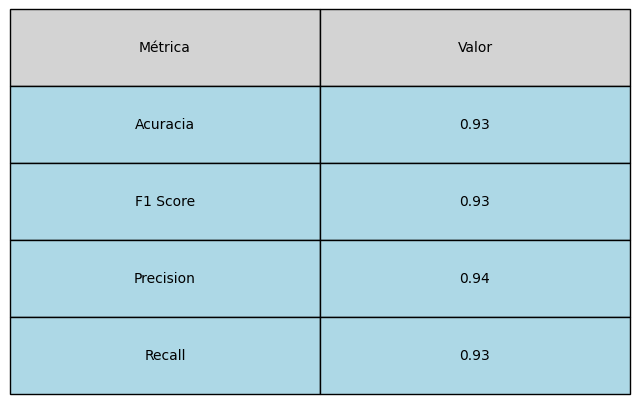
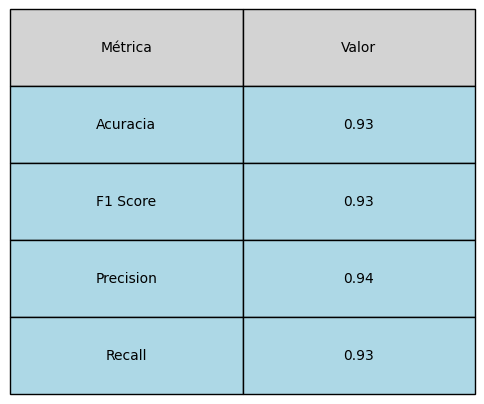
Update READme and add 1 vs all accuracy plot

diff --git a/README.md b/README.md
@@ -9,7 +9,10 @@ Inicialmente, é realizado o tratamento dos arquivos encontrados na pasta data, 
 
 No arquivo [funcs.py](funcs.py)
  está presente os códigos de Regressão linear, PLA, Pocket e Regressão logistica. Abaixo estão os plots obtidos comparando 1 a 1 (no caso do PLA, nem sempre será possível ser utilizado, pois os dados não são linearmente separáveis). E importante destacar que foram feitas adapções como transformar as labels em 1 e -1 para conseguir calcular. Essas informações estão presentes no arquivo [codes.ipynb](codes.ipynb).
-O primeiro passo foi calcular e plotar gráficos de regressão linear, como é possível nos plots abaixo:
+
+### Regressão linear
+Bom, regressão linear, de forma simplificada e informal, é como tentar traçar uma reta ou um plano que represente a trajetória e o comportamento dos dados. Ela utiliza a função de diferença quadrática para ajustar os pesos em cada iteração, buscando se aproximar dos valores reais dos dados. A ideia principal da regressão linear não é para classificação, mas, em alguns casos, ela pode oferecer uma boa aproximação de uma reta que separa dados de classes diferentes, como é o caso dos dados desse projeto. Para fazer essa classificação assim como no Perceptron foi utilizado a função sign para saber como classificar os dados.
+
 #### Plots - Regressão linear 1 x 1:
  ![rl_01](imagens/rl_0_1.png)
  ![rl_01](imagens/rl_0_4.png)
@@ -27,8 +30,14 @@ O primeiro passo foi calcular e plotar gráficos de regressão linear, como é p
 ![rl_01](imagens/mc_lr_1_4.png)
 ![rl_01](imagens/mc_lr_4_5.png)
 
+### Perceptron e Pocket
 
- Feito isso, foi iniciado a análise 1 a 1 utilizando Perceptron. É importante destacar não é possível usar o Perceptron para todos os casos, pois nem sempre os dados eram linear separáveis. Uma adaptação feita com objetivo de melhorar o desempenho, foi iniciar o vetor W com os valores obtidos na regressão linear, isso  fez com que nem fossem feitas novas iterações em alguns casos(já que a reta já seperava os dados) e o processo todo fosse muito mais rápido. Obs: o primeiro exemplo não utilizou o W da regressão linear, justamente para ser visto a diferença; no número de iterações, ao utilizar o W obtido na regressão linear,  foi percebido que um número de iterações  milhares de vezes maior sem o W, além disso foi percebido um movimento diferente ao enxergar o comportamento da reta.
+Após a regressão linear, iniciou-se a análise 1 a 1 utilizando o Perceptron. É importante destacar que não é possível usar o Perceptron em todos os casos, pois nem sempre os dados são linearmente separáveis. Uma adaptação feita para melhorar o desempenho foi iniciar o vetor W com os valores obtidos na regressão linear, o que fez com que, em alguns casos, nem fossem necessárias novas iterações (já que a reta já separava os dados), tornando o processo muito mais rápido. Obs: o primeiro exemplo não utilizou o W da regressão linear justamente para que a diferença fosse observada; ao utilizar o W obtido na regressão linear, percebeu-se que o número de iterações sem esse W era milhares de vezes maior. Além disso, notou-se um comportamento diferente na reta ao longo do processo.
+
+Mas como funciona o Perceptron? Ele tem uma ideia simples: assumindo X como um vetor de features, pegamos um vetor W (vetor de pesos) e calculamos o produto interno dele com o vetor [1, X], sendo o 1 adicionado para o bias, permitindo a translocação da reta ou hiperplano. Feito esse cálculo, aplicamos a função sign, que dará a classificação 1 ou -1. No dataset, temos os valores previstos, então vamos modificando o vetor W até que sign(W * X) produza o valor previsto no dataset.
+
+O algoritmo do Perceptron entra em loop caso os dados não sejam linearmente separáveis, por isso, nesses casos se utiliza o Pocket, o qual faz um número finito de iterações e retorna o melhor W encontrado.
+
 #### Plots - Perceptron 1 x 1:
 ![rl_01](imagens/perc_1_5.png)
 ![rl_01](imagens/perc_0_1.png)
@@ -42,8 +51,17 @@ O primeiro passo foi calcular e plotar gráficos de regressão linear, como é p
 ![rl_01](imagens/mc_perc_1_5.png)
 ![rl_01](imagens/mc_perc_1_4.png)
 Para dados que são visualmente linearmente inseparáveis, foi usado o Pocket, que possui uma ideia similar ao Perceptron com a mudança que possui um número de iterações definido previamente.
+### Regressão logística
 
-### Visualização da Regressão Logística:
+  A fórmula abaixo é da função logística. Basicamente, ela é a nossa função-alvo, a qual que queremos nos aproximar. O 's' é o produto interno do vetor 'x' (as features) com o vetor de pesos 'w', que será ajustado a cada iteração no algoritmo de aprendizado. A ideia é que, a cada iteração, mudamos o 'w' e ele vai se aproximando cada vez mais dessa função. Até aí, tudo tranquilo, né?
+
+![r](imagens/func_log.png)
+
+Aí você pode se perguntar: "Mas por que fazer isso?" Então, se você reparar, os valores que essa função gera ficam entre 0 e 1, o que nos dá uma ideia de probabilidade de pertencimento a uma determinada classe (chamamos essa probabilidade de 'p'). Além disso, temos também a estimativa da probabilidade de pertencer à outra classe, dada por '1-p'. Assim, se tivermos novos 'x' fora do treinamento e fizermos o produto interno com o vetor de pesos, conseguimos uma estimativa da probabilidade de pertencer a uma classe específica.
+
+Feito isso, temos um classificador. Se f(x) for maior que 0,5, é mais provável que o ponto pertença à classe 1 (vamos chamar assim). Se a probabilidade for menor, é mais provável que pertença à classe 2 (porque nesse caso, 1-p > 0,5). No gráfico 3D, o vetor 'x' é bidimensional, por isso a função parece um plano. Mas, se você observar bem, ela mantém o formato(muito visível nas labels 4,5), só que em 3D, o que indica que eu consegui me aproximar da função-alvo.
+
+#### Visualização 3D da Regressão Logística:
 
 [Labels 0,1](https://thiagorcj.github.io/Projeto_ML/logistic_regression_3d_plot_0_1.html) |
 [Labels 0,4](https://thiagorcj.github.io/Projeto_ML/logistic_regression_3d_plot_0_4.html) |
@@ -62,10 +80,19 @@ Para dados que são visualmente linearmente inseparáveis, foi usado o Pocket, q
 ![r](imagens/rlo_plot_0_5.png)
 ![r](imagens/rlo_plot_1_4.png)
 ![r](imagens/rlo_plot_4_5.png)
-#### Resultado 1 contra todos - Regressão linear
+
+### Classificador com multiplas classes com ideia de "1 contra todos" - Regressão linear
+
+
 Gif com os processos detalhados para classificação:
+
 ![r](temp_images/decision_boundaries.gif)
+
 Métricas:
+
 ![r](imagens/accuracy_all_table.png)
+
 Matriz confusão:
+
 ![r](imagens/matriz_all.png)
+
